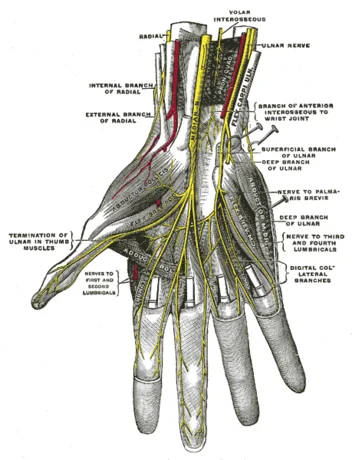
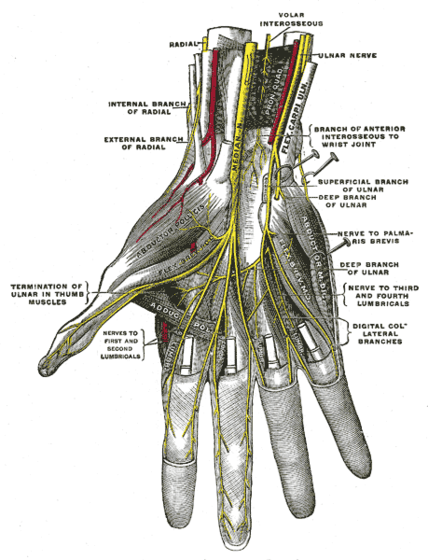
Improve nerve intro image quality and layout

diff --git a/src/pages/ContentPage.tsx b/src/pages/ContentPage.tsx
@@ -975,7 +975,9 @@ const nerveIntroBySlug: Record<string, NerveIntroContent> = {
           Ultrazvuk <strong>n. medianus</strong> je v PMR zásadní hlavně při potížích v oblasti karpálního tunelu, předloktí a
           loketní jamky, protože umožňuje rychle ověřit <strong>změnu kalibru nervu</strong>, ztrátu fascikulární kresby i vztah
           k okolním šlachám a retinakulu. Pomáhá odlišit syndrom karpálního tunelu od proximálnější komprese, zachytit
-          zánětlivé či posttraumatické změny a přesněji zacílit další rehabilitační, intervenční nebo chirurgický postup.
+          zánětlivé či posttraumatické změny a přesněji zacílit další rehabilitační, intervenční nebo chirurgický postup. Velkou
+          výhodou je i možnost dynamického porovnání s druhostranným nervem a sledování nervu v celé délce přes rizikové úseky,
+          kde se komprese nemusí projevit jen v karpálním tunelu, ale i proximálněji v oblasti pronator teres nebo lacertus fibrosus.
         </>
       ),
       en: (
@@ -984,7 +986,9 @@ const nerveIntroBySlug: Record<string, NerveIntroContent> = {
           tunnel, forearm, or cubital fossa, because it quickly shows <strong>nerve caliber change</strong>, loss of fascicular
           pattern, and the nerve&apos;s relation to nearby tendons and retinaculum. It helps distinguish carpal tunnel syndrome
           from more proximal compression, detect inflammatory or post-traumatic changes, and better guide rehabilitation,
-          injection, or surgical planning.
+          injection, or surgical planning. Another major advantage is dynamic comparison with the contralateral side and continuous
+          tracking of the nerve across high-risk segments, where compression may occur not only in the carpal tunnel but also more
+          proximally near the pronator teres or lacertus fibrosus.
         </>
       )
     },
@@ -1001,7 +1005,9 @@ const nerveIntroBySlug: Record<string, NerveIntroContent> = {
           Ultrazvuk <strong>n. ulnaris</strong> má velký význam zejména v oblasti mediálního lokte a Guyonova kanálu, kde je nerv
           často vystaven <strong>kompresi nebo dynamické iritaci</strong>. Vyšetření v reálném čase umožňuje sledovat průběh nervu
           přes kubitální tunel, posoudit ztluštění, změny echogenity, subluxaci při flexi lokte i vztah k retinakulu a FCU, a
-          tím lépe rozlišit, zda jsou příznaky dány útlakem, přetížením nebo následkem úrazu.
+          tím lépe rozlišit, zda jsou příznaky dány útlakem, přetížením nebo následkem úrazu. Prakticky je velmi cenné i to, že
+          sonografie zobrazí nerv při pohybu, takže lze zachytit intermitentní obtíže, které nemusí být patrné při statickém
+          vyšetření, a současně posoudit okolní měkké tkáně, jizvy, ganglia nebo změny po opakované mechanické zátěži.
         </>
       ),
       en: (
@@ -1010,7 +1016,9 @@ const nerveIntroBySlug: Record<string, NerveIntroContent> = {
           where the nerve is commonly affected by <strong>compression or dynamic irritation</strong>. Real-time imaging allows us
           to follow the nerve through the cubital tunnel, assess thickening, echotexture change, subluxation during elbow
           flexion, and its relationship to the retinaculum and FCU, helping separate entrapment from overload or post-traumatic
-          pathology.
+          pathology. In practice, sonography is also valuable because it visualizes the nerve during movement, making intermittent
+          problems easier to detect, while simultaneously assessing surrounding soft tissues, scar tissue, ganglia, or overload-related
+          structural change.
         </>
       )
     },
@@ -1027,7 +1035,9 @@ const nerveIntroBySlug: Record<string, NerveIntroContent> = {
           Ultrazvuk <strong>n. radialis</strong> je velmi užitečný při bolestech laterálního lokte, slabosti extenzorů i po úrazech
           paže, protože přesně ukazuje průběh nervu v <strong>sulcus nervi radialis</strong>, místo dělení v loketní jamce i hlubokou
           větev pod Frohseho arkádou. Díky tomu lze lépe odhalit útlak, trakční poškození nebo jizevnaté změny a odlišit
-          neuropatii radiálního nervu od samotné tendinopatie v oblasti laterálního epikondylu.
+          neuropatii radiálního nervu od samotné tendinopatie v oblasti laterálního epikondylu. Vyšetření je důležité také po
+          frakturách humeru nebo při podezření na syndrom zadního interoseálního nervu, kdy ultrazvuk pomáhá určit přesnou úroveň
+          postižení a vztah nervu k okolním fasciálním a svalovým strukturám.
         </>
       ),
       en: (
@@ -1035,7 +1045,9 @@ const nerveIntroBySlug: Record<string, NerveIntroContent> = {
           Ultrasound of the <strong>radial nerve</strong> is very useful in lateral elbow pain, extensor weakness, and after arm
           trauma because it clearly shows the nerve in the <strong>radial groove</strong>, the division point in the cubital fossa,
           and the deep branch beneath the arcade of Frohse. This helps reveal entrapment, traction injury, or scarring and also
-          distinguish radial neuropathy from isolated lateral epicondylar tendinopathy.
+          distinguish radial neuropathy from isolated lateral epicondylar tendinopathy. It is also important after humeral fractures
+          or when posterior interosseous nerve syndrome is suspected, because ultrasound helps define the exact level of involvement
+          and the nerve&apos;s relationship to surrounding fascial and muscular structures.
         </>
       )
     },
@@ -3550,17 +3562,17 @@ export default function ContentPage({ path }: ContentPageProps) {
         <PageHeader title={localize(node.title, lang)} color={node.color} />
         {progressBar}
         <section className={styles.articleBox}>
-          <article className={`${styles.articleCard} ${styles.nerveIntroCard}`}>
+          <article className={styles.nerveIntroLayout}>
             <div className={styles.nerveIntroText}>
               <p>{nerveIntroContent.text[lang]}</p>
             </div>
-            <ResponsiveImage
-              image={makeResponsiveImagePhone("Nerves/Anatomy", nerveIntroContent.imageBaseName)}
-              alt={nerveIntroContent.alt[lang]}
-              wrapClassName={`${styles.shoulderUltrasoundImageWrap} ${styles.nerveIntroImageWrap}`}
-              enableMobileZoom
-              caption={nerveIntroContent.alt[lang]}
-            />
+            <div className={styles.nerveIntroMedia}>
+              <ResponsiveImage
+                image={makeResponsiveImagePhone("Nerves/Anatomy", nerveIntroContent.imageBaseName)}
+                alt={nerveIntroContent.alt[lang]}
+                wrapClassName={`${styles.shoulderUltrasoundImageWrap} ${styles.nerveIntroImageWrap}`}
+              />
+            </div>
           </article>
         </section>
         {chapterNav}

diff --git a/src/pages/SharedPages.module.css b/src/pages/SharedPages.module.css
@@ -411,9 +411,11 @@
   background: #fff;
 }
 
-.nerveIntroCard {
+.nerveIntroLayout {
+  display: grid;
+  gap: 1.25rem;
   grid-template-columns: minmax(0, 1.15fr) minmax(260px, 0.85fr);
-  align-items: center;
+  align-items: stretch;
 }
 
 .nerveIntroText {
@@ -425,10 +427,22 @@
   margin: 0;
 }
 
+.nerveIntroMedia {
+  display: flex;
+  min-height: 0;
+}
+
 .nerveIntroImageWrap {
   max-width: none;
   margin: 0;
-  background: #fff;
+  min-height: 0;
+  height: 100%;
+  background: transparent;
+  border-radius: 0;
+}
+
+.nerveIntroImageWrap .inlineImage {
+  height: 100%;
 }
 
 .probeGripRoundedWrap {
@@ -720,13 +734,18 @@
   }
 
   .nerveIntroImageWrap .inlineImage {
-    max-height: 520px;
+    max-height: none;
   }
 }
 
 @media (max-width: 740px) {
   .articleCard {
     grid-template-columns: 1fr;
+  }
+
+  .nerveIntroLayout {
+    grid-template-columns: 1fr;
+    gap: 1rem;
   }
 
   .inlineImageWrap {
@@ -759,12 +778,13 @@
   }
 
   .nerveIntroImageWrap {
-    max-width: 420px;
+    max-width: 100%;
     margin: 0 auto;
+    height: auto;
   }
 
   .nerveIntroImageWrap .inlineImage {
-    max-height: 360px;
+    max-height: 520px;
   }
 }
 
@@ -800,8 +820,9 @@
     grid-template-columns: 220px 1fr;
   }
 
-  .nerveIntroCard {
+  .nerveIntroLayout {
     grid-template-columns: minmax(0, 1fr) minmax(220px, 320px);
+    align-items: stretch;
   }
 
   .inlineImageWrap {
